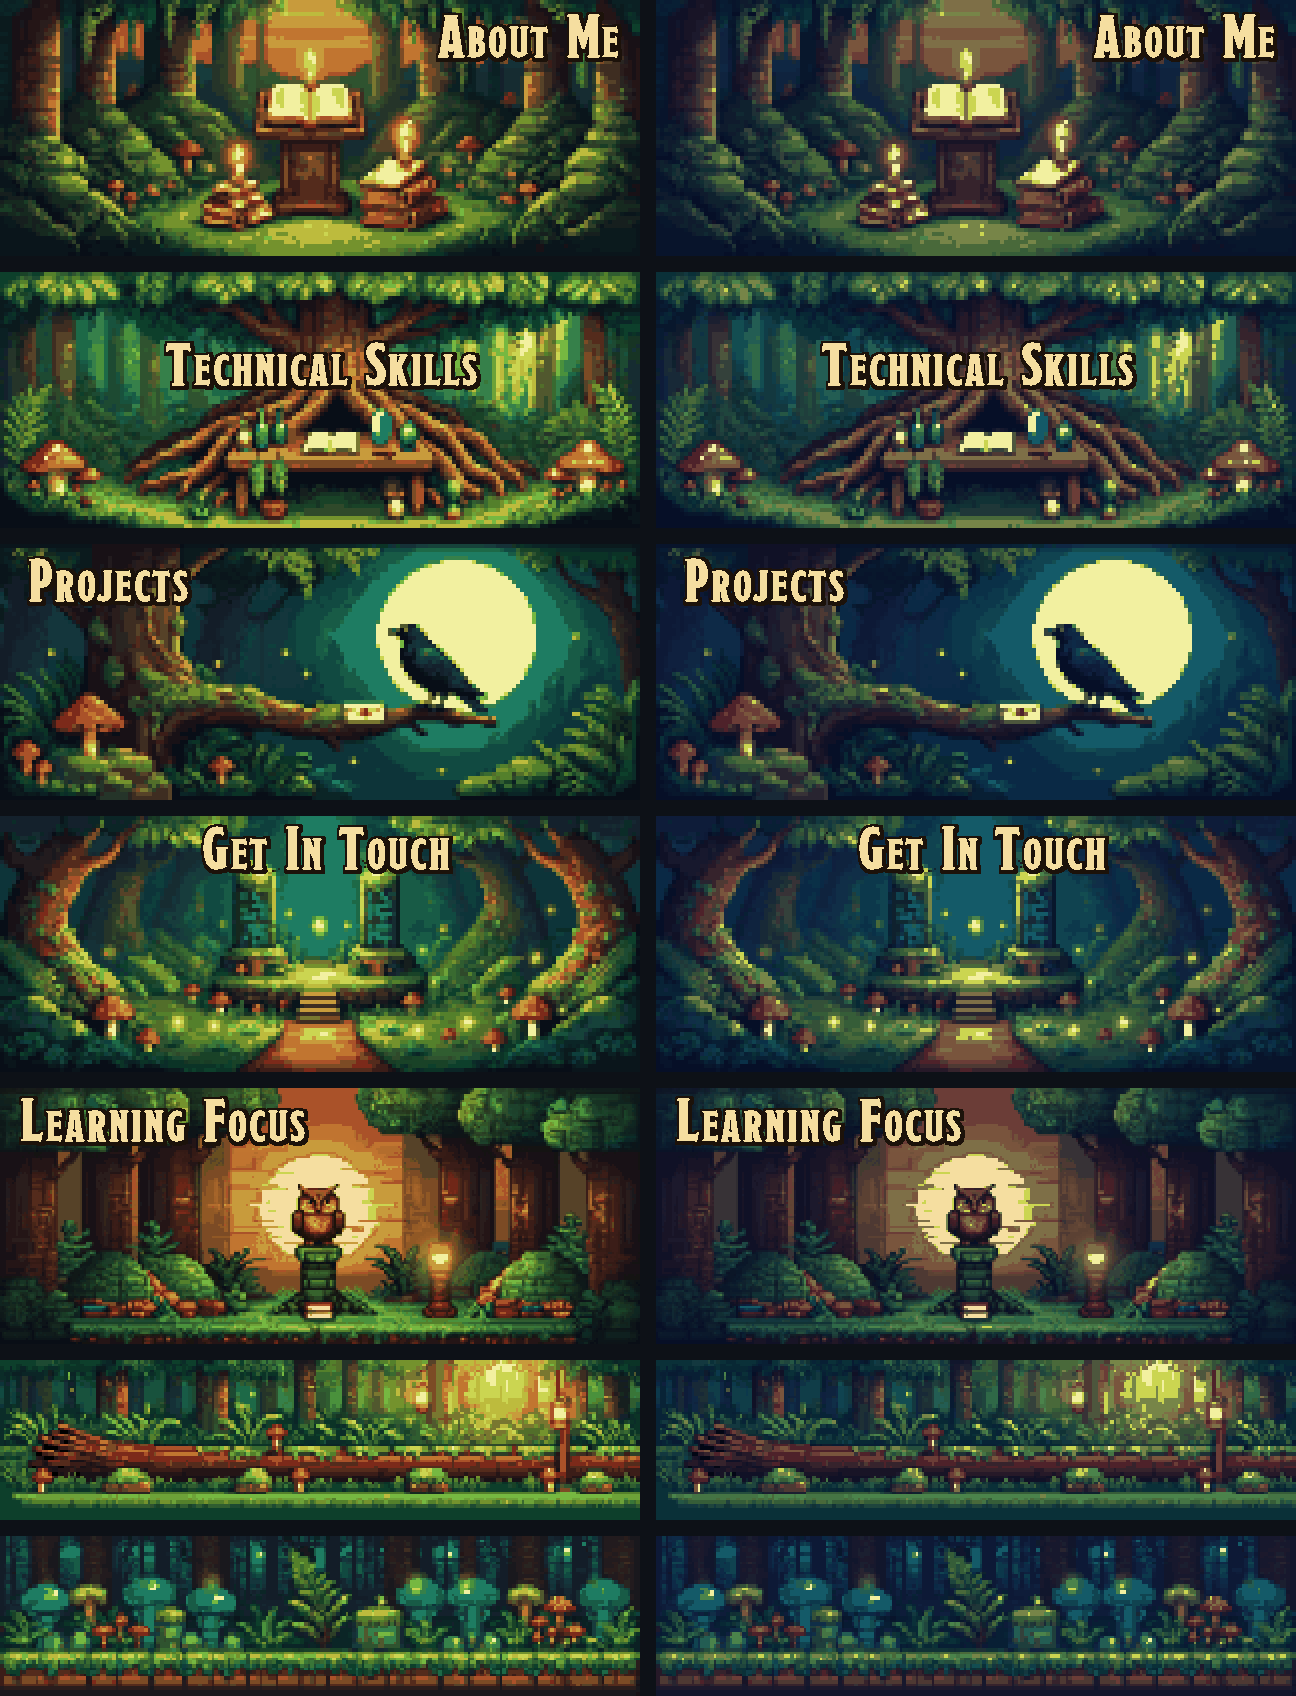
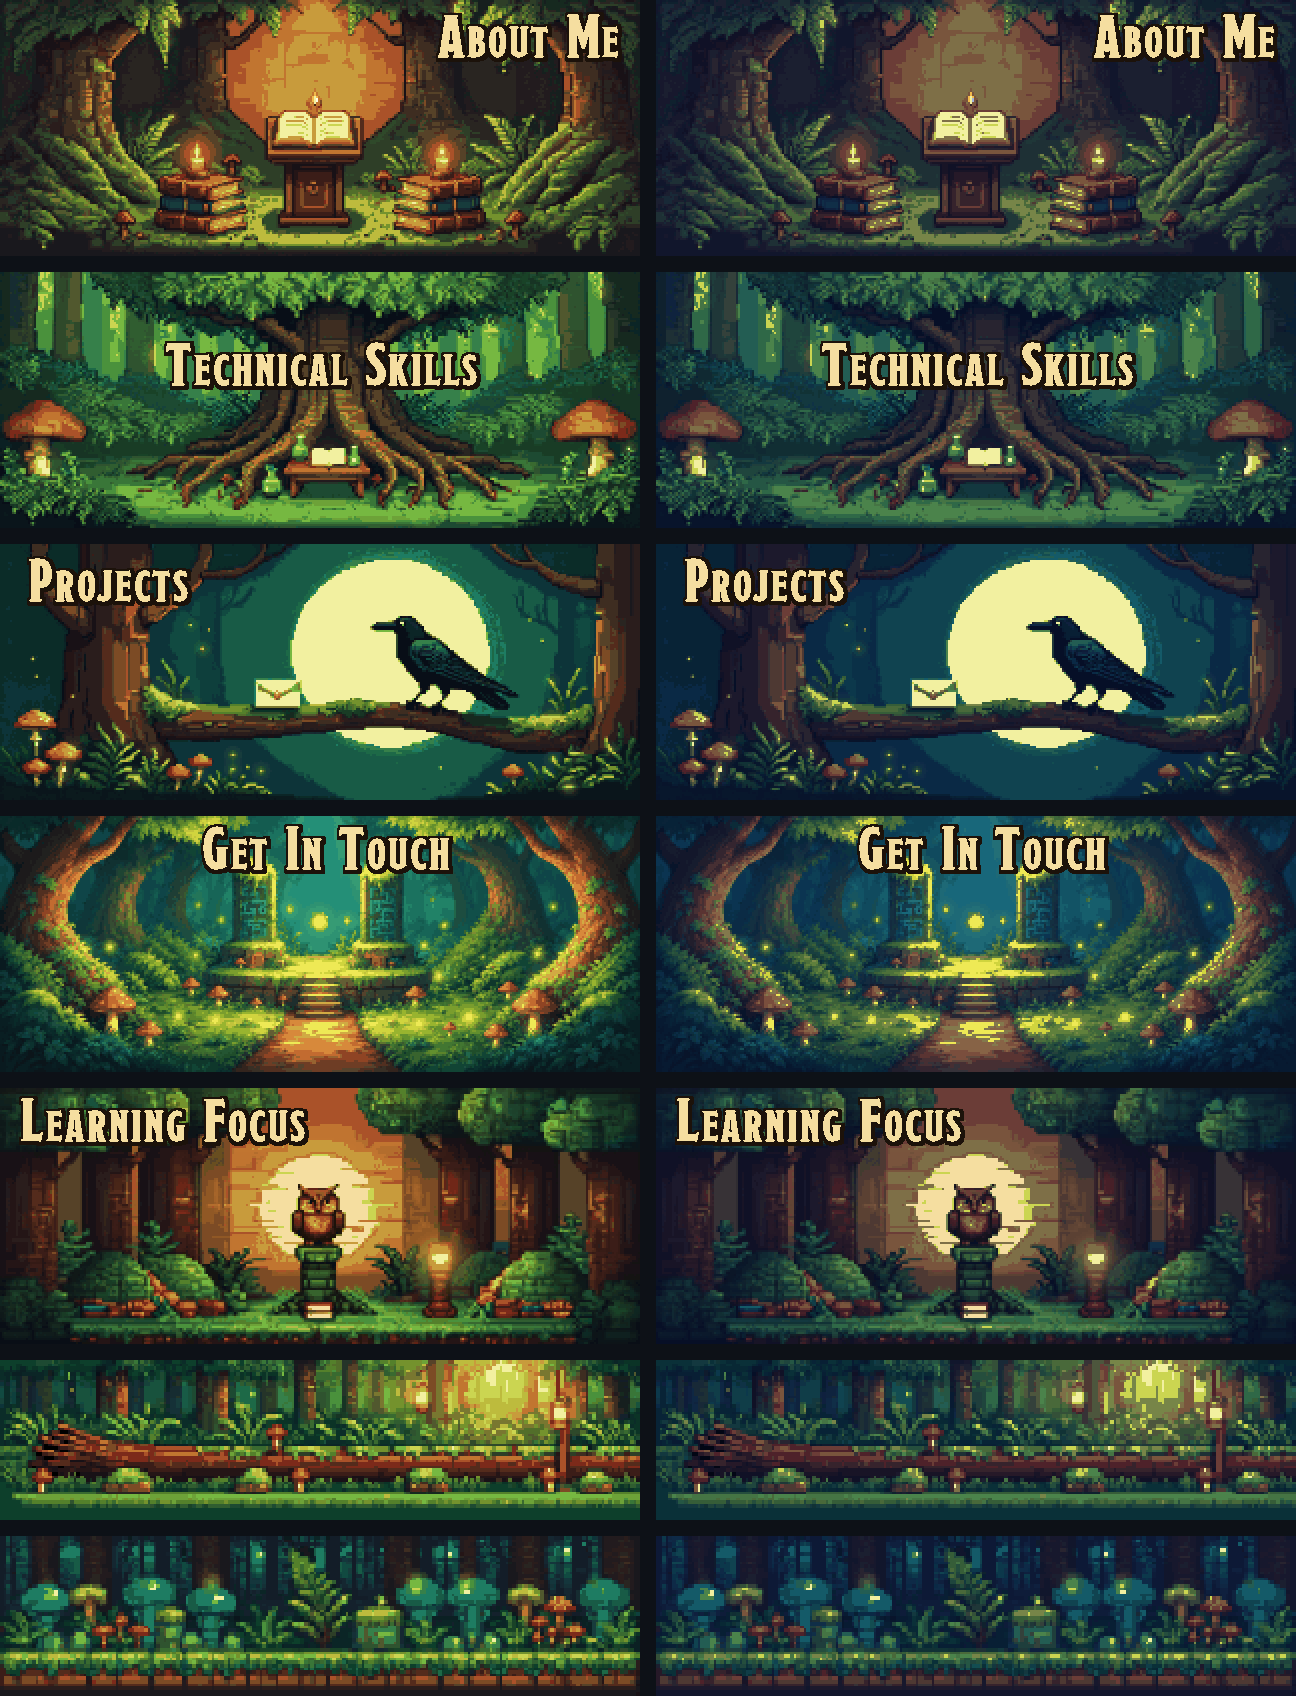
README and changelog for 1.2.0, no credit line needed on your own profile (#34)
## What

- **Version 1.2.0.** Changelog entry for #21 to #29 and the dependency
updates.
- **README brought up to date:**
  - links to All cards and Privacy
- the builder's two paths (GitHub profile or something else), templates,
Undo and Start over
- a Privacy section, and the admin people list with Remove and Allow
under "Watching it"
  - `/cards` and `/privacy` in the page list
- **Images:** `hero.png` and `decorations.png` rebuilt from the site's
current card copies (current runes and fire, the repainted decorations).
- **No credit line needed:** ART-LICENSE, the README, the status page
credits and the wiki FAQ say that using the cards from questlog.cc on
your own profile needs no credit line. Self-hosted instances still carry
the credit.

## Checks

- `cargo test --release --locked` passes on main with the merged
dependency updates (144 tests).
- Site build passes.

diff --git a/site/i18n/en/status.ts b/site/i18n/en/status.ts
@@ -247,7 +247,7 @@ export const attributions = {
   art: {
     what: "Paintings and sprites",
     credit:
-      "© Cevdet Baran Oral, under <ccbync>CC BY-NC 4.0</ccbync>. Credit as \"questlog-github-stats art by Cevdet Baran Oral\"; linking the cards to the repository counts. Commercial use needs written permission: contact@cevdetbaran.com.",
+      "© Cevdet Baran Oral, under <ccbync>CC BY-NC 4.0</ccbync>. Cards from questlog.cc on your own profile need no credit line. Commercial use needs written permission: contact@cevdetbaran.com.",
   },
   code: {
     what: "Code",

diff --git a/site/i18n/en/wiki.ts b/site/i18n/en/wiki.ts
@@ -211,7 +211,7 @@ export const wiki = {
       },
       {
         q: "Is it free?",
-        a: "Yes, for noncommercial use such as your own profile. The code is MIT. The paintings are © Cevdet Baran Oral under CC BY-NC 4.0, so commercial use needs written permission: contact@cevdetbaran.com.",
+        a: "Yes, for noncommercial use such as your own profile, and you do not need to add a credit line. The code is MIT. The paintings are © Cevdet Baran Oral under CC BY-NC 4.0, so commercial use needs written permission: contact@cevdetbaran.com.",
       },
     ],
   },

diff --git a/README.md b/README.md
@@ -4,7 +4,7 @@
 
 Pixel art GitHub profile cards with a medieval feel: a character sheet, a spellbook of your languages and a campfire for your streak. Paste one line into your profile README: no token, no workflow, no setup.
 
-**[Website](https://questlog.cc)** · **[Profile builder](https://questlog.cc/builder)** · **[Wiki](https://questlog.cc/wiki)** · **[Status](https://questlog.cc/status)**
+**[Website](https://questlog.cc)** · **[Profile builder](https://questlog.cc/builder)** · **[All cards](https://questlog.cc/cards)** · **[Wiki](https://questlog.cc/wiki)** · **[Status](https://questlog.cc/status)** · **[Privacy](https://questlog.cc/privacy)**
 
 ![The forest scene: Character Sheet, Spellbook and Campfire, by day and by night](assets/readme/hero.png)
 
@@ -16,7 +16,16 @@ Pixel art GitHub profile cards with a medieval feel: a character sheet, a spellb
 
 ## Use it
 
-Open the [profile builder](https://questlog.cc/builder), type your login, add cards and copy your README; a short tour shows you around the first time. Or write it yourself, one line per card:
+Open the [profile builder](https://questlog.cc/builder) and pick what you're decorating:
+
+- **A GitHub profile:** type your login. The builder starts from your profile README; add cards one at a time or start from a template (Simple, Some details, The most detailed), click any card to change it, then copy the result.
+- **Something else** (a website, a blog, any Markdown file): no login needed, and you get the decorations.
+
+A short tour shows you around the first time. Undo and Start over let you back out of any change.
+
+[All cards](https://questlog.cc/cards) shows every card in every scene, by day and night, in fine and chunky pixels, plus the decorations. Click one to preview it and copy its address.
+
+Or write it yourself, one line per card:
 
 ```md
 ![octocat's stats](https://questlog.cc/octocat/stats)
@@ -116,6 +125,10 @@ A note goes where the card has room: under the rows on `/stats`, across both col
 
 Only public data is shown. Private contributions count if you've enabled "Include private contributions" in your GitHub profile settings.
 
+## Privacy
+
+questlog sets no cookies and runs no analytics or ads. To draw your cards it keeps your public GitHub numbers (refreshed every 12 hours) and a list of the card addresses used with your login, so its owner can see who uses it. [questlog.cc/privacy](https://questlog.cc/privacy) lists everything it keeps and for how long. To have your login removed, write to contact@cevdetbaran.com: your saved data is deleted, and your cards stop showing your stats.
+
 ## Run your own
 
 ```bash
@@ -129,9 +142,11 @@ A self-hosted instance must credit the paintings as **"questlog by Cevdet Baran 
 
 **Watching it.** The server writes one plain line per request and per background event to stderr (`docker logs questlog`): what was asked, whether the card came from the memory cache, the disk cache or was drawn (and how long that took), each GitHub fetch with the quota left, queue decisions, and a status line every 15 minutes. Client IPs are never written; the Cloudflare ray id links a line to Cloudflare's own logs. `/status` and `/health` show the public state (up, whether GitHub fetching runs, whether new users get in, with times in UTC). `/admin/status` and `/admin/health` show every count and capacity, the last hour's traffic and the latest log lines. Put them behind a Cloudflare Access app and set `ACCESS_TEAM_DOMAIN`, `ACCESS_AUD` and `ADMIN_EMAILS` (see `.env.example`): the server then checks the login token Access signs on every request, so the pages stay closed even if someone reaches the server another way. Without those settings they open only for a local run.
 
+**People.** The admin page also lists who has used the instance: each GitHub login whose card a person's browser or GitHub's image proxy received, with its saved stats and the card addresses it used. Decorations made without a login are only counted. Bots, the owner and the example logins are left out, and no IPs are saved. The list lives in `people.json` in `DATA_DIR` and forgets a login 12 months after its last visit. **Remove** deletes a login's saved stats, stops fetching it, and makes its cards say they're not shown. **Allow** undoes that.
+
 ## Development
 
-The pages at `/`, `/builder`, `/wiki`, `/status` and `/admin/status` come from `site/`, a Next.js static export that the binary embeds. Build it before `cargo build`: `cd site && npm ci && npm run build` (it writes `static/`).
+The pages at `/`, `/builder`, `/cards`, `/wiki`, `/status`, `/privacy` and `/admin/status` come from `site/`, a Next.js static export that the binary embeds. Build it before `cargo build`: `cd site && npm ci && npm run build` (it writes `static/`).
 
 The cards on those pages are not drawn live: the site ships its own WebP copies in `site/public/cards/`. After a change to the art or the drawing, build the site, run a local server of the new build, draw the copies again with `uv run site/scripts/snap_cards.py http://127.0.0.1:8080`, then build the site once more.
 
@@ -145,7 +160,7 @@ The code and the art have different licenses.
 
 - **Code: MIT** (see `LICENSE`). Use it, change it, self-host it.
 - **Art: © Cevdet Baran Oral, CC BY-NC 4.0** (see `ART-LICENSE.md`). This covers the paintings and sprites in `art/` and `assets/`, and the cards drawn from them.
-  - Free for non-commercial use with credit, such as cards on your own GitHub profile.
+  - Free for non-commercial use, such as cards on your own GitHub profile. Cards from questlog.cc need no credit line in your README.
   - A self-hosted instance keeps the credit "questlog by Cevdet Baran Oral", linked to questlog.cc.
   - Commercial use needs written permission, and that includes a commercial self-hosted instance. Ask at contact@cevdetbaran.com.
 - **Fonts:** their own licenses (see `fonts/README.md`).

diff --git a/CHANGELOG.md b/CHANGELOG.md
@@ -1,5 +1,22 @@
 # Changelog
 
+## 1.2.0
+
+- **All cards** at [questlog.cc/cards](https://questlog.cc/cards): every card in every scene, every fire size in classic and themed fire, and every decoration, by day and night in fine and chunky pixels. Clicking one opens a preview with copy and open actions.
+- **Profile builder:**
+  - The first step asks whether it's for a GitHub profile or something else (a website, a blog, any Markdown file). Something else needs no login and offers the decorations.
+  - Templates: Simple, Some details and The most detailed. Back to my README restores the README you started from.
+  - Start over, next to Undo.
+  - "Profile builder" in the nav and footer.
+- **Previews on the wiki:** every card and decoration image opens the same preview as the builder.
+- **Fine-pixel fires and decorations:** fine cards draw the fire at full detail, and `reading-nook`, `workbench`, `raven-moon` and `enchanted-clearing` are repainted at full detail, by day and by night.
+- **Share images** for every page, plus `robots.txt` and a sitemap.
+- **Privacy page** at [questlog.cc/privacy](https://questlog.cc/privacy): what is kept, why, for how long, and how to have it removed. It is linked from the footer and the builder.
+- **Removal on request:** a removed login's saved stats are deleted, it is never fetched again, and its cards say they're not shown.
+- **People on the admin page:** who has used the instance, with their saved stats and card addresses, 5 per page with search. No IPs are kept, and entries are forgotten after 12 months.
+- **No credit line needed** on your own profile when you use the cards from questlog.cc.
+- Dependency updates: Next.js 16.4.5, tokio, rustls, skrifa, lucide-react, gsap and marked.
+
 ## 1.1.0
 
 - **Cards are WebP:** lossless, animated where they move, about a third of the size of the PNGs before, pixel for pixel the same.

diff --git a/ART-LICENSE.md b/ART-LICENSE.md
@@ -4,7 +4,7 @@ Copyright (c) 2026 Cevdet Baran Oral.
 
 The paintings and sprites under `art/` and `assets/`, and the artwork in the cards drawn from them, are licensed under the Creative Commons Attribution-NonCommercial 4.0 International License (CC BY-NC 4.0): https://creativecommons.org/licenses/by-nc/4.0/
 
-- **Non-commercial use is free**, for example cards on your own GitHub profile, with credit: "questlog by Cevdet Baran Oral". Using the cards from questlog.cc, or linking them to this repository, counts as credit.
+- **Non-commercial use is free**, for example cards on your own GitHub profile. Using the cards from questlog.cc already counts as credit, so you do not need to add a credit line to your profile or README. Anywhere else, credit them as "questlog by Cevdet Baran Oral".
 - **A self-hosted instance** (a server built from this repository that serves the paintings or cards drawn from them) must show that credit as **"questlog by Cevdet Baran Oral"**, linked to https://questlog.cc, on every page it serves that shows the cards, and in its README or about page. It may use its own address, but it may not remove the questlog name from the credit or credit the art to anyone else. A changed instance must also say that it is changed (for example "based on questlog by Cevdet Baran Oral").
 - **Commercial use needs written permission.** That covers any use primarily intended for commercial advantage or monetary compensation, such as a paid product or service, advertising, or a commercial self-hosted instance. Ask at contact@cevdetbaran.com.
 
